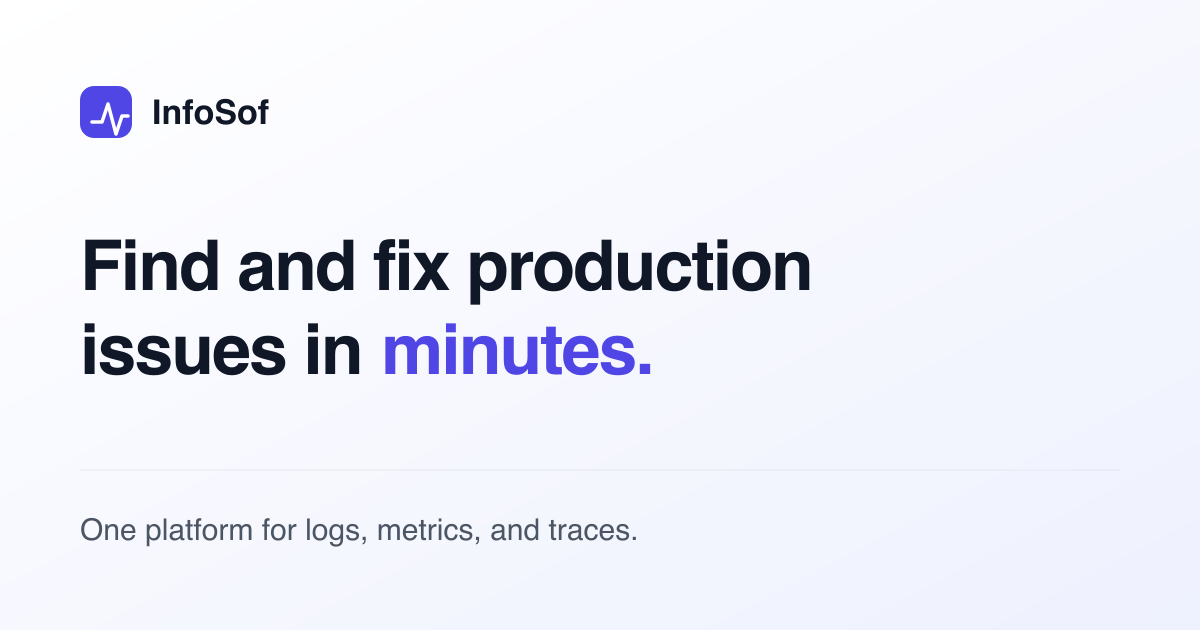
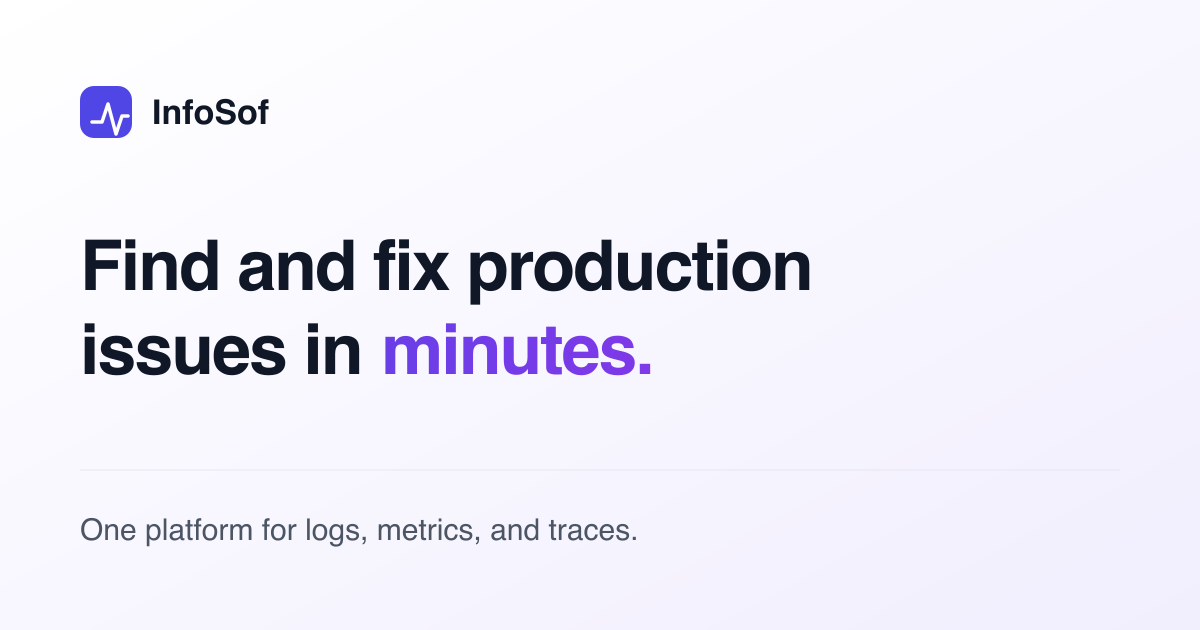
Update UI design

Changed region(s): [[0.3083, 0.5127, 0.555, 0.6032]]

diff --git a/src/styles/global.css b/src/styles/global.css
@@ -135,6 +135,30 @@ samp {
     border-block: 1px solid var(--border);
 }
 
+/* Signature hero backdrop: soft color glows + a faint faded grid. */
+.hero-canvas {
+    position: relative;
+    isolation: isolate;
+    background-color: var(--bg);
+    background-image:
+        radial-gradient(48% 55% at 8% -8%, var(--glow-indigo), transparent 60%),
+        radial-gradient(42% 50% at 98% 0%, var(--glow-violet), transparent 55%);
+}
+
+.hero-canvas::before {
+    content: '';
+    position: absolute;
+    inset: 0;
+    z-index: -1;
+    background-image:
+        linear-gradient(var(--grid-line) 1px, transparent 1px),
+        linear-gradient(90deg, var(--grid-line) 1px, transparent 1px);
+    background-size: 34px 34px;
+    -webkit-mask-image: radial-gradient(90% 70% at 50% 0%, #000 25%, transparent 78%);
+    mask-image: radial-gradient(90% 70% at 50% 0%, #000 25%, transparent 78%);
+    pointer-events: none;
+}
+
 @media (min-width: 48rem) {
     .section {
         padding-block: var(--space-9);
@@ -165,10 +189,20 @@ samp {
     display: inline-block;
     font-family: var(--font-mono);
     font-size: var(--text-xs);
-    font-weight: 500;
+    font-weight: 600;
     letter-spacing: 0.08em;
     text-transform: uppercase;
-    color: var(--accent);
+    background: var(--gradient);
+    -webkit-background-clip: text;
+    background-clip: text;
+    color: transparent;
+}
+
+.grad-text {
+    background: var(--gradient);
+    -webkit-background-clip: text;
+    background-clip: text;
+    color: transparent;
 }
 
 .lead {

diff --git a/src/styles/tokens.css b/src/styles/tokens.css
@@ -17,6 +17,12 @@
     --accent-contrast: #ffffff;
     --accent-soft: rgba(79, 70, 229, 0.10);
     --violet: #7c3aed;
+    /* Signature gradient + background texture */
+    --gradient: linear-gradient(120deg, #4f46e5 0%, #7c3aed 55%, #9333ea 100%);
+    --gradient-soft: linear-gradient(120deg, rgba(79, 70, 229, 0.12), rgba(147, 51, 234, 0.12));
+    --grid-line: rgba(79, 70, 229, 0.07);
+    --glow-indigo: rgba(79, 70, 229, 0.18);
+    --glow-violet: rgba(147, 51, 234, 0.16);
     /* Feedback */
     --danger: #d92d20;
     --danger-soft: rgba(217, 45, 32, 0.10);
